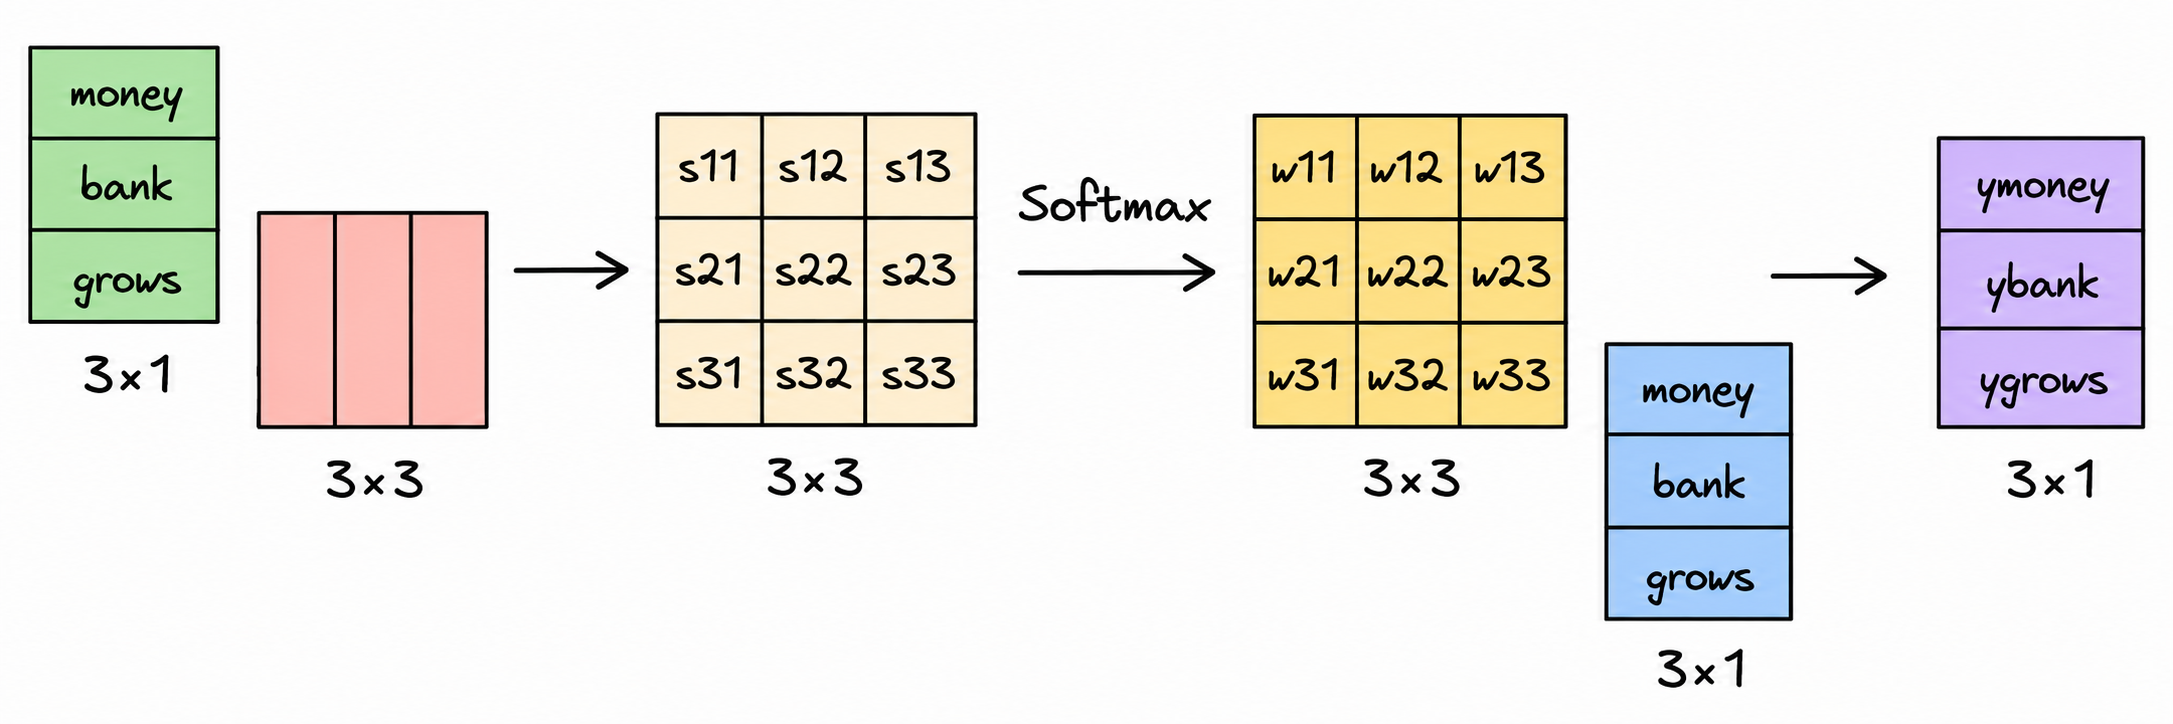
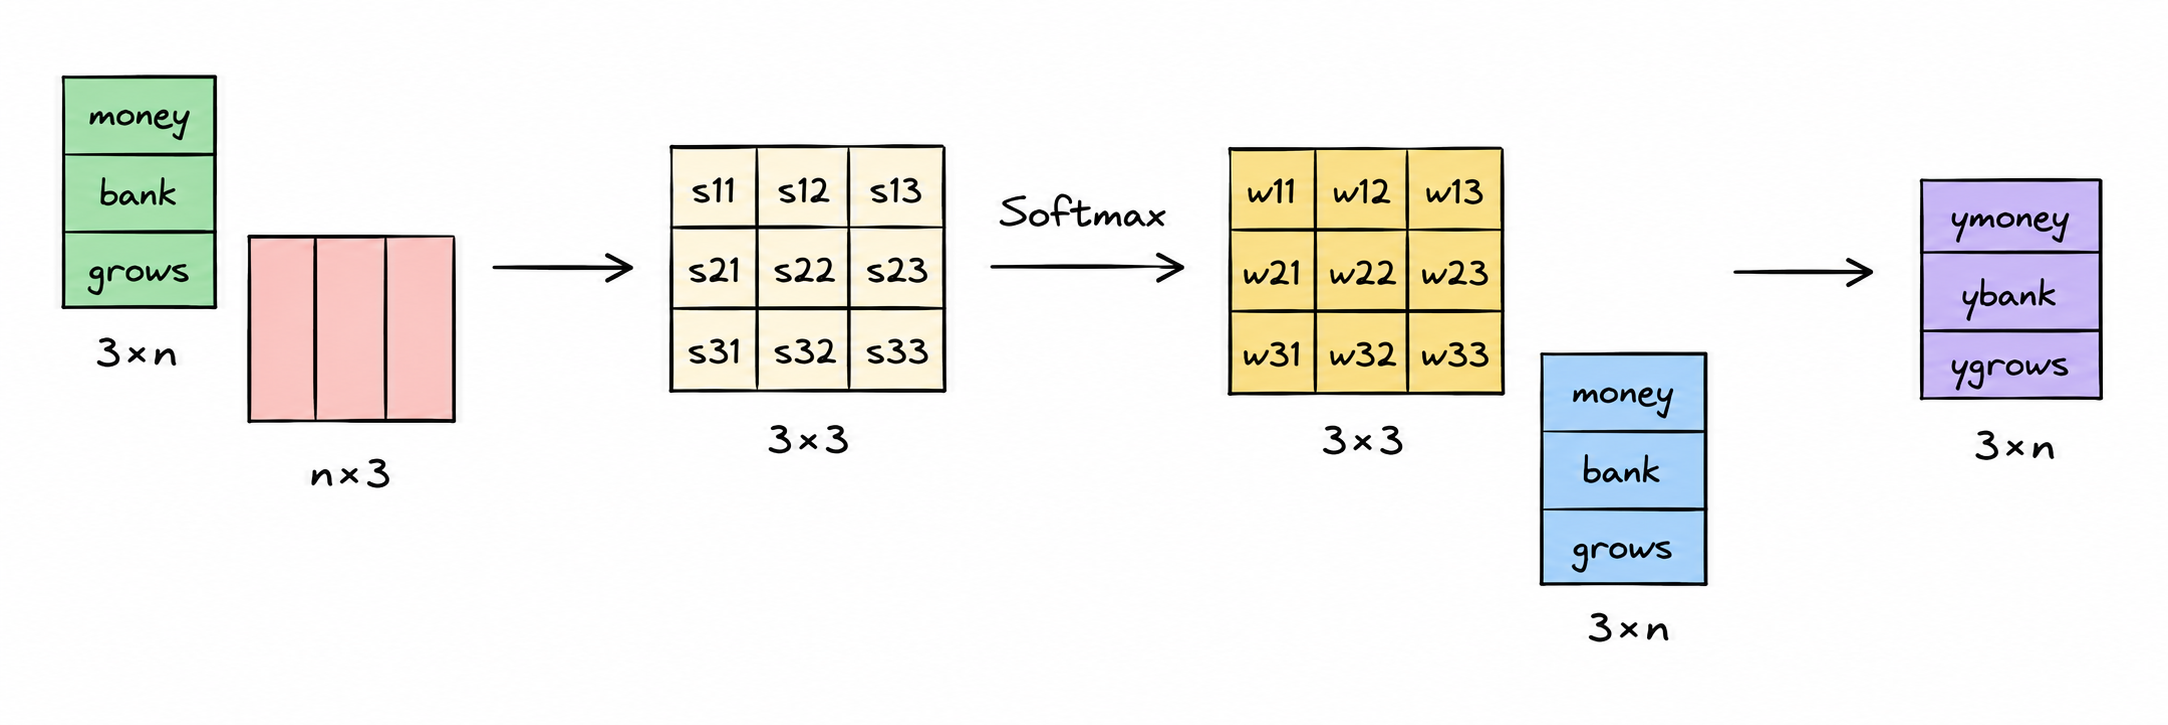
Fix blog issues

Changed region(s): [[0.0, 0.0608, 0.8344, 0.942], [0.8035, 0.1823, 0.9889, 0.6989], [0.1236, 0.6381, 0.2163, 0.6989]]

diff --git a/src/content/writings/self_attention.md b/src/content/writings/self_attention.md
@@ -445,17 +445,31 @@ There are two important observations to make about this mechanism.
 
 ### Observation 1: Everything can be computed in parallel
 
-If you look carefully at the computations involved, every operation is independent of the others.
+If you look carefully at the mechanism we have constructed so far, every computation is independent of the others.
 
-The computation of $S_{11}$ does not depend on $S_{21}$. The computation of $A_{12}$ does not depend on $A_{31}$. Similarly, the contextual embedding of one word does not need to wait for the contextual embedding of another word to be computed.
+The similarity score between one pair of embeddings can be computed without waiting for the similarity score of any other pair. Likewise, the attention weights for one word can be computed independently of the attention weights for every other word. And once those weights have been obtained, the contextual embedding of a word can be formed without needing the contextual embeddings of the remaining words.
 
-As a result, all these computations can be performed simultaneously. Instead of processing words one after another, we can process the entire sequence at once using linear algebra operations.
+As a result, there is no inherent sequential dependency in the computation.
 
-This is one of the biggest advantages of this approach, and one of the reasons why Transformer-based models are significantly more efficient than recurrent architectures when dealing with long sequences.
+Unlike recurrent architectures, which process tokens one after another, the mechanism we have built allows every word in the sequence to perform its computations simultaneously.
 
-However, this advantage comes with a trade-off.
+This means that instead of processing:
 
-Since all words are processed simultaneously, the mechanism itself has no notion of sequence order. From its perspective:
+*Money → bank → grows*
+
+one word at a time, we can process the entire sequence in parallel.
+
+This property turns out to be extremely important.
+
+Modern hardware such as GPUs is highly optimized for performing large numbers of mathematical operations simultaneously. Since the computations in our attention mechanism do not depend on one another, they can be expressed as matrix operations and executed very efficiently in parallel.
+
+This parallelism is one of the key reasons attention-based architectures scale so effectively to large datasets and long sequences.
+
+However, this advantage comes with an important trade-off.
+
+Because every word is processed simultaneously, the mechanism itself has no built-in notion of sequence order.
+
+From its perspective, the phrases
 
 *Money bank grows*
 
@@ -463,91 +477,63 @@ and
 
 *Grows bank money*
 
-contain exactly the same set of embeddings. The mechanism knows which words are present, but it has no way of knowing the order in which those words appeared.
+contain exactly the same set of embeddings.
 
-In other words, we lose sequential information, which is extremely important when working with textual data.
+The mechanism can determine how strongly words should influence one another, but nothing in the computations we have described so far tells it which word appeared first, second, or third.
 
-Fortunately, Transformers have a clever solution for this problem, which we will cover in a later blog.
+In other words, the attention mechanism by itself does not encode positional information.
 
-That solution is called positional encoding. Before self-attention is applied, positional information is injected into the token embeddings. This allows the model to distinguish between sentences containing the same words in different orders, ensuring that word order information is not lost despite the highly parallel nature of self-attention.
+Fortunately, Transformer architectures solve this problem through a technique known as **positional encoding**, which injects information about token positions into the embeddings before attention is applied.
+
+We will not cover positional encoding in this blog, but it is worth keeping in mind that attention alone is not sufficient for modeling word order.
 
 ## Scaling to Longer Sequences
 
-Now that we have expressed the entire mechanism using matrices, it becomes clear just how cleanly the computation scales to longer sequences.
+Up until now, we have intentionally described everything from the perspective of individual words.
 
-Recall that our sentence:
+For example, when constructing the contextual embedding of *bank*, we manually computed similarity scores, converted those scores into attention weights, and then used those weights to form a weighted combination of embeddings.
+
+This word-by-word view is extremely useful because it exposes the underlying intuition.
+
+However, Observation 1 reveals something important.
+
+None of the computations we performed actually need to be carried out one word at a time.
+
+The similarity scores for all pairs of words can be computed simultaneously.
+
+The attention weights for all words can be computed simultaneously.
+
+And the contextual embeddings for all words can be constructed simultaneously.
+
+In practice, we therefore replace the word-by-word view with a matrix-based formulation that performs exactly the same computations for the entire sequence at once.
+
+Matrices are not introducing a new mechanism.
+
+They are simply a compact way of expressing the same operations we have already derived.
+
+Recall our running example:
 
 *Money bank grows*
 
-contains three words.
-
-We begin by stacking the embeddings of all three words into a single embedding matrix:
+We can stack the embeddings of all three words into a single embedding matrix:
 
 $$
-E = \begin{bmatrix} e_{\langle money \rangle} \\ e_{\langle bank \rangle} \\ e_{\langle grows \rangle} \end{bmatrix}
+E =
+\begin{bmatrix}
+e_{\langle money \rangle} \
+e_{\langle bank \rangle} \
+e_{\langle grows \rangle}
+\end{bmatrix}
 $$
 
-This is a $3 \times n$ matrix.
+This is a $3 \times n$ matrix, where:
 
-The number $3$ represents the number of words in the sentence, while $n$ represents the dimensionality of the embedding vectors.
+* $3$ is the number of words in the sequence.
+* $n$ is the dimensionality of each embedding vector.
 
-Depending on the model, $n$ could be 3, 50, 100, 512, 768, or any other embedding size.
-
-Similarly, all Query vectors are stacked together to form the matrix $Q$, all Key vectors are stacked together to form the matrix $K$, and all Value vectors are stacked together to form the matrix $V$.
-
-Now recall what we were originally doing.
-
-For every pair of words, we computed a dot product between a Query vector and a Key vector in order to obtain a similarity score. Instead of computing these scores one by one, we can compute all of them simultaneously through a single matrix multiplication:
-
-$$
-QK^T
-$$
-
-If $Q$ is a $3 \times n$ matrix and $K^T$ is an $n \times 3$ matrix, then the result is a $3 \times 3$ matrix:
-
-$$
-\begin{bmatrix} S_{11} & S_{12} & S_{13} \\ S_{21} & S_{22} & S_{23} \\ S_{31} & S_{32} & S_{33} \end{bmatrix}
-$$
-
-Notice what just happened.
-
-With a single matrix multiplication, we generated every similarity score required by the attention mechanism.
-
-Next, we divide the scores by $\sqrt{d_k}$ and apply Softmax to obtain the attention-weight matrix. To keep this matrix distinct from the projection matrices $W_Q$, $W_K$, and $W_V$, let us call it $A$:
-
-$$
-A = \begin{bmatrix} A_{11} & A_{12} & A_{13} \\ A_{21} & A_{22} & A_{23} \\ A_{31} & A_{32} & A_{33} \end{bmatrix}
-$$
-
-And finally, instead of performing weighted sums one word at a time, we again use a single matrix multiplication:
-
-$$
-AV
-$$
-
-to obtain
-
-$$
-\begin{bmatrix} y_{\langle money \rangle} \\ y_{\langle bank \rangle} \\ y_{\langle grows \rangle} \end{bmatrix}
-$$
-
-which contains the contextualized representations for all words in the sentence.
-
-The following diagram illustrates this end-to-end matrix flow. The $3 \times n$ embedding matrix and the $n \times 3$ transpose combine into the $3 \times 3$ similarity matrix, which is divided by $\sqrt{d_k}$, then Softmax turns it into the attention matrix $A$, which is then combined with the Value vectors to produce the final $3 \times n$ output matrix:
+The diagram below expresses the same attention mechanism we previously built, but now in matrix form.
 
 ![Matrix dimensions through the self-attention pipeline](/assets/self_attention2.png)
-
-The beautiful part is that none of these operations care whether the sentence contains 3 words, 30 words, or 300 words.
-
-The exact same sequence of matrix operations still works.
-
-Everything is computed together.
-
-Everything is computed in parallel.
-
-And because modern GPUs are extremely good at performing large matrix multiplications, the entire self-attention mechanism can be executed very efficiently.
-
-In short, self-attention is not only powerful because it produces contextualized representations. It is also remarkably efficient because the entire computation can be expressed as a handful of highly parallel matrix operations.
 
 ### Observation 2: There are no learnable parameters
 